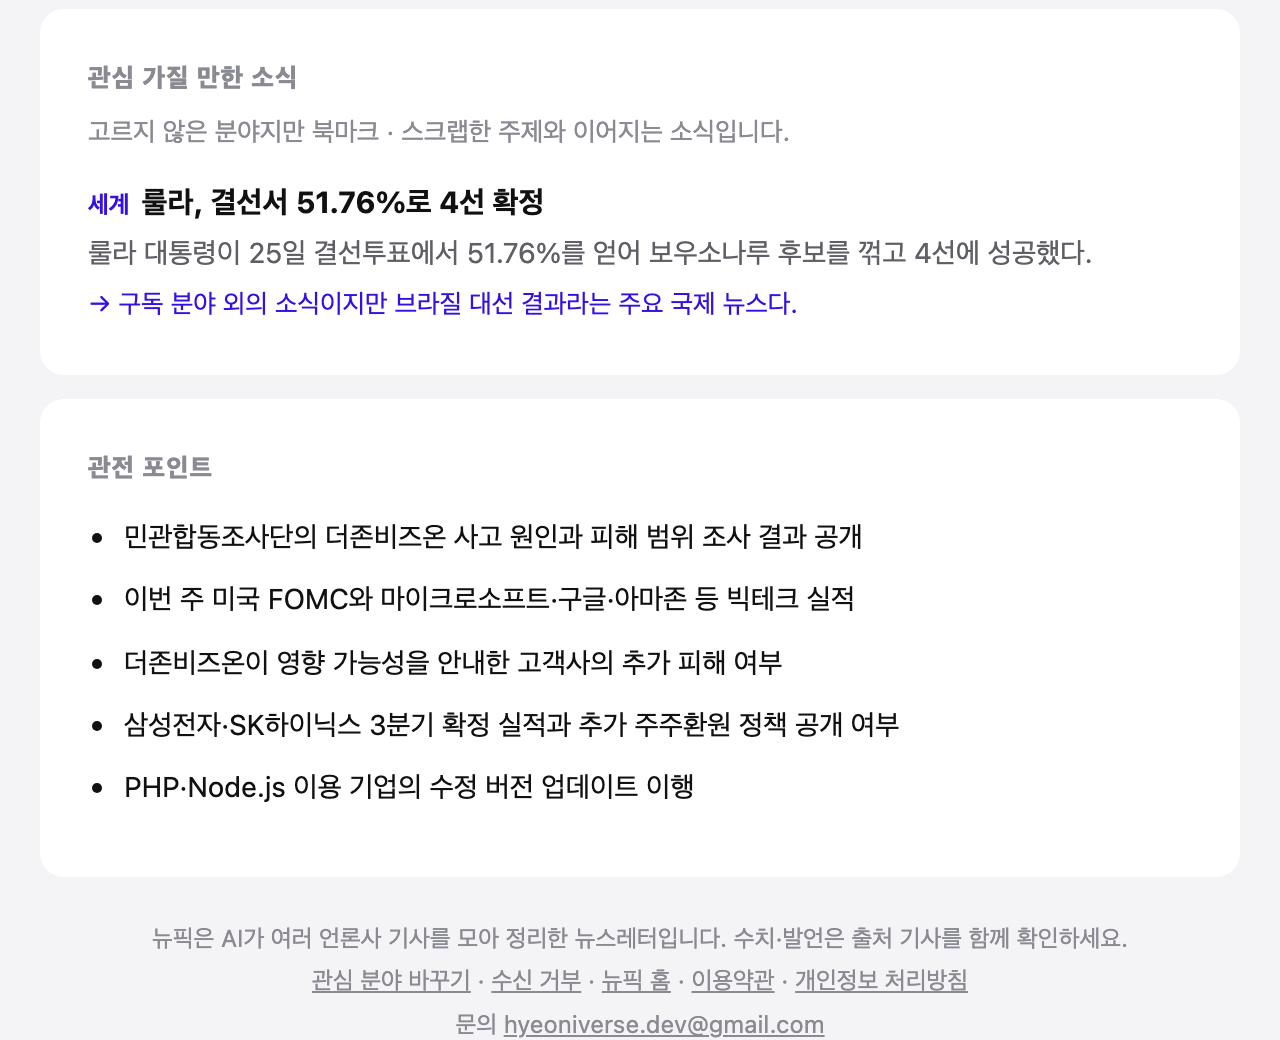
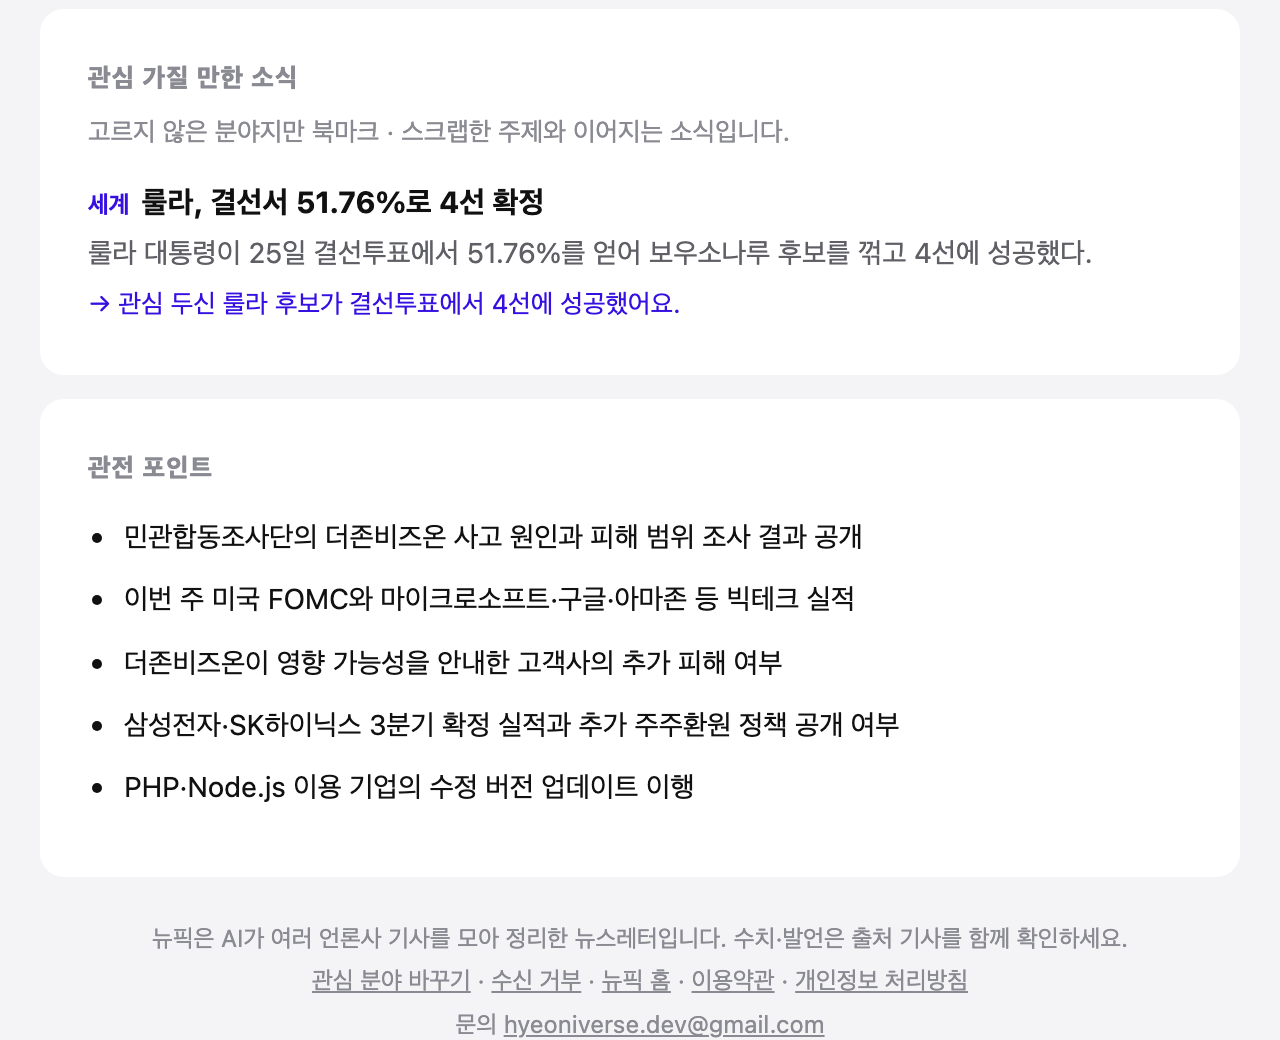
feat: 맞춤 브리핑 · 나에게 왜를 해요체로 — 소식마다 닿은 관심 주제를 넘겨 '관심 두신 ○○'로 잇고, 가르치는 투 · 일반론 · 북마크/스크랩 짐작은 쓰지 않게

Changed region(s): [[0.0938, 0.2769, 0.625, 0.3077]]

diff --git a/apps/api/src/edition/personalNote.ts b/apps/api/src/edition/personalNote.ts
@@ -30,13 +30,17 @@ export const notePrompt = (edition: ComposedEdition, profile: TasteProfile) => {
     .slice(0, NOTE_LIMITS.topics)
     .map((t) => t.name)
     .join(', ');
+  // 닿은 관심 주제를 함께 넘긴다: 없으면 '나에게 왜'가 "~분야 구독자로서"처럼 일반론으로 흐른다
+  const touched = (topics?: string[]) =>
+    topics?.length ? ` (닿은 관심: ${topics.join(', ')})` : '';
   const stories = [
     ...edition.top.map(
-      (t) => `[${t.ref}] (${t.category}) ${t.heading} — ${t.line}`,
+      (t) =>
+        `[${t.ref}] (${t.category}) ${t.heading} — ${t.line}${touched(t.topics)}`,
     ),
     ...edition.extras.map(
       (x) =>
-        `[${x.ref}] (${x.category}, 구독하지 않은 분야) ${x.heading} — ${x.line}`,
+        `[${x.ref}] (${x.category}, 구독하지 않은 분야) ${x.heading} — ${x.line}${touched(x.topics)}`,
     ),
   ].join('\n');
   return [
@@ -48,9 +52,10 @@ export const notePrompt = (edition: ComposedEdition, profile: TasteProfile) => {
     '',
     '이 독자 한 사람을 위한 글을 씁니다.',
     `- subject: 메일 제목. 이 독자의 관심사와 가장 닿는 오늘 소식 하나를 담아 ${NOTE_LIMITS.subject}자 이내, 기사 제목 형식. 날짜 · "뉴픽"은 넣지 않습니다.`,
-    `- briefing: 맞춤 브리핑 2~3문장, ${NOTE_LIMITS.briefing}자 이내. 독자에게 직접 건네는 글이라 존댓말(~습니다, ~보세요)로 씁니다. 독자의 관심 주제와 오늘 소식이 어떻게 이어지는지, 무엇을 먼저 보면 좋은지. 관심 주제와 닿는 소식이 적으면 오늘 꼭 알아야 할 소식을 중심으로 씁니다.`,
-    `- whys: 이 소식들만 하나씩: ${whyTargets(edition).join(', ') || '(없음 — 빈 배열)'} (ref: 그 값 그대로, why: 독자의 관심 주제와 이 소식이 어떻게 이어지는지 ${NOTE_LIMITS.why}자 이내). 한 줄 요약을 되풀이하지 않습니다.`,
-    '- briefing은 존댓말, whys는 간결한 평서체(~다). "~님", 감탄, 칭찬, 이모지는 쓰지 않습니다.',
+    `- briefing: 맞춤 브리핑 2~3문장, ${NOTE_LIMITS.briefing}자 이내. 독자에게 직접 건네는 글이라 부드러운 해요체(~했어요, ~보세요)로 씁니다. 독자의 관심 주제와 오늘 소식이 어떻게 이어지는지, 무엇을 먼저 보면 좋은지. 관심 주제와 닿는 소식이 적으면 오늘 꼭 알아야 할 소식을 중심으로 씁니다.`,
+    `- whys: 이 소식들만 하나씩: ${whyTargets(edition).join(', ') || '(없음 — 빈 배열)'} (ref: 그 값 그대로, why: 그 소식의 '닿은 관심' 주제 이름을 꼭 넣어, 그 주제와 오늘 소식이 어떻게 이어지는지 해요체 한 문장 ${NOTE_LIMITS.why}자 이내. 예: "관심 두신 더존비즈온 사고에 정부 조사가 시작됐어요.", "관심 두신 코스피가 외국인 매도로 5500선 아래로 꺾였어요."). 한 줄 요약을 되풀이하지 않습니다. "~할 필요가 있어요" · "~를 주시해야 해요"처럼 독자를 가르치는 말, "~분야 구독자로서" 같은 일반론은 쓰지 않습니다.`,
+    '- briefing과 whys 모두 해요체(~했어요, ~예요)로 씁니다. ~습니다체 · 반말은 쓰지 않습니다. "~님", 감탄, 칭찬, 이모지는 쓰지 않습니다.',
+    "- 독자가 북마크했는지 스크랩했는지는 모르니 '관심 두신'처럼 씁니다 ('스크랩하신' · '북마크하신'으로 짐작하지 않습니다).",
     '- 소식에 있는 사실만 씁니다. 숫자 · 이름은 그대로 쓰고 새 사실을 지어내지 않습니다.',
     ...GENDER_RULES,
   ].join('\n');

diff --git a/apps/api/src/edition/personal.spec.ts b/apps/api/src/edition/personal.spec.ts
@@ -166,13 +166,18 @@ describe('사람마다 쓰는 글 (personalNote)', () => {
     expect(prompt).toContain('반도체, AI');
     expect(prompt).toContain('[30-1] (세계, 구독하지 않은 분야)');
     expect(prompt).toContain('새 사실을 지어내지 않습니다');
-    expect(prompt).toContain('존댓말(~습니다, ~보세요)');
+    expect(prompt).toContain('해요체(~했어요, ~보세요)');
+    expect(prompt).toContain('briefing과 whys 모두 해요체');
+    expect(prompt).toContain('짐작하지 않습니다');
+    expect(prompt).toContain('독자를 가르치는 말');
     expect(prompt).toContain('여성을 깎아내리거나');
   });
 
   it("'나에게 왜'는 관심 태그와 닿은 소식 · 다른 분야에서 더한 소식에만", () => {
     const prompt = notePrompt(composed, profile);
     expect(prompt).toContain('이 소식들만 하나씩: 10-2, 20-1, 30-1');
+    // 닿은 관심 주제를 소식마다 넘긴다 (일반론 대신 그 주제로 잇게)
+    expect(prompt).toMatch(/\[10-2\] .*\(닿은 관심: [^)]+\)/);
     expect(
       normalizeNote(
         {
